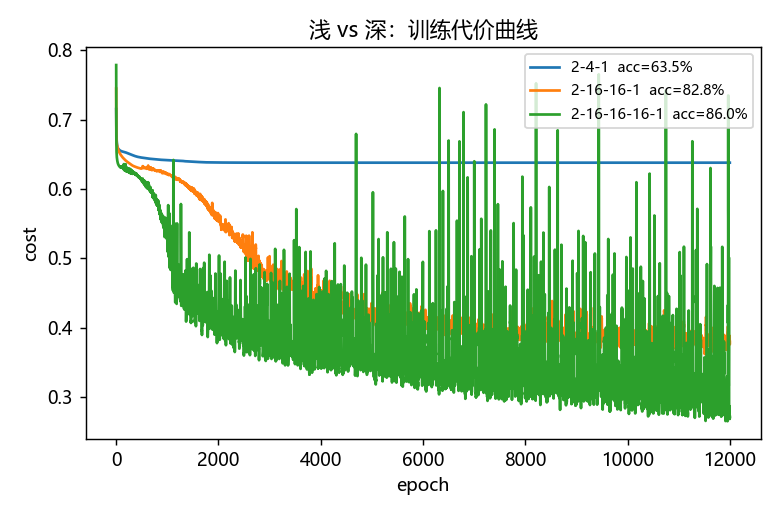
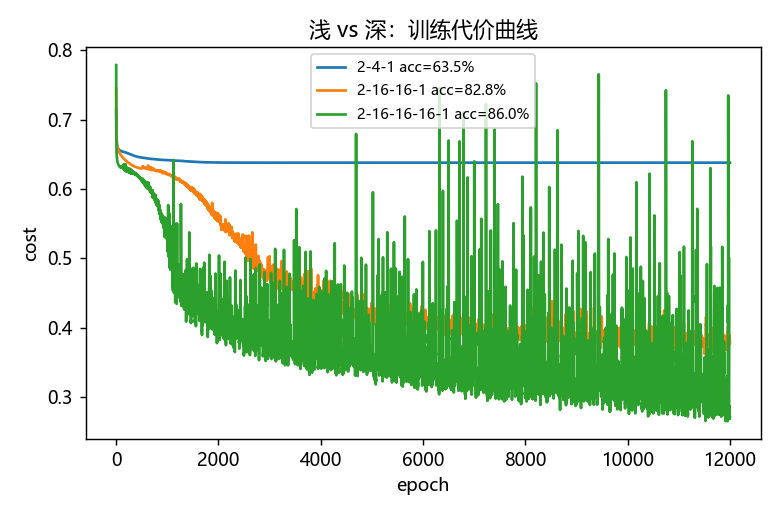
W4: 逐行注释版（含 Python 语法小抄），结果与原版一致

Changed region(s): [[0.4, 0.0923, 0.9846, 0.2462]]

diff --git a/playground/nn_deep_everyline.py b/playground/nn_deep_everyline.py
@@ -1,0 +1,357 @@
+"""
+任意层数的神经网络 —— 每一行都注释的版本（第四周作业）
+=========================================================
+这个文件是给你这种"Python 语法还没学完"的人看的：
+每一行代码，旁边或上方都有一句解释。
+解释分两种：
+    【语法】这行 Python 在干什么
+    【数学】这行在算什么
+
+运行方式：
+    cd /d D:\dl-journey
+    python playground\nn_deep_everyline.py
+
+跑完会打印三种层数结构的准确率，并生成两张图。
+"""
+
+
+# =============================================================================
+# 第 0 节：Python 语法小抄 —— 先花 10 分钟看这个，再看代码
+# =============================================================================
+#
+# 1) import 是什么？
+#    import numpy as np
+#    相当于 C++ 的 #include，把别人的库拿进来用；as np 是起外号。
+#
+# 2) 列表（list）是什么？
+#    a = [1, 2, 3]
+#    相当于 C++ 的 vector，可以装任意东西，长度可变。
+#    a[0] 是第一个元素（下标从 0 开始，和 C++ 一样）。
+#    a.append(x) 往末尾加一个元素。
+#
+# 3) 字典（dict）是什么？
+#    d = {"W": 1, "b": 2}
+#    相当于 C++ 的 map<string, 值>，用"键"取"值"：d["W"] 得到 1。
+#
+# 4) 列表套字典是什么？
+#    params = [{"W": ..., "b": ...}, {"W": ..., "b": ...}]
+#    params[0] 是第 1 层的字典，params[0]["W"] 就是第 1 层的 W。
+#
+# 5) for 循环怎么写？
+#    for i in range(3):     → i 依次等于 0, 1, 2（range(3) 不含 3）
+#    注意 Python 用"缩进"表示范围，不用花括号。
+#
+# 6) 倒着循环怎么写？
+#    for i in reversed(range(3)):   → i 依次等于 2, 1, 0
+#
+# 7) 函数怎么写？
+#    def f(a, b=1):   定义函数 f，参数 a 必填，b 默认 1
+#        return a + b
+#
+# 8) 占位列表：[None] * 3  → 造一个长度为 3、每个元素都是 None 的列表
+#
+# 9) f-string 是什么？
+#    f"准确率 {acc:.2f}%"  → 把变量 acc 填进去，:.2f 表示保留两位小数
+#
+# 10) 用大括号取值的写法：params[l]["W"]  → 第 l+1 层的 W（因为下标从 0 开始）
+#
+# 11) @ 是什么？矩阵乘法，等价于 np.dot。
+# 12) .T 是什么？转置。
+# 13) np.xxx 是什么？numpy 里的函数，例如 np.sum 求和、np.maximum 取较大值。
+# 14) (Z > 0) 是什么？对数组逐个判断，得到一堆 True/False；
+#     在 numpy 里 True/False 可以直接当 1/0 参与乘法。
+# 15) if __name__ == "__main__": 固定写法，表示"直接运行这个文件时才执行下面"。
+#
+# 看懂这 15 条，下面的代码逐行读就没有障碍了。
+# =============================================================================
+
+
+# ---------- 第 1 节：导入要用的库 ----------
+import os                     # 【语法】导入 os，用来拼文件路径
+
+import numpy as np            # 【语法】导入 numpy，别名 np，做矩阵运算
+import matplotlib             # 【语法】导入 matplotlib，画图用
+matplotlib.use("Agg")         # 【语法】设置成"不弹窗、直接存图"的模式
+import matplotlib.pyplot as plt  # 【语法】导入画图接口，别名 plt
+
+plt.rcParams["font.sans-serif"] = ["Microsoft YaHei", "SimHei"]  # 【语法】指定中文字体，否则中文变方块
+plt.rcParams["axes.unicode_minus"] = False                       # 【语法】让负号正常显示
+
+HERE = os.path.dirname(os.path.abspath(__file__))  # 【语法】__file__ 是本文件路径；abspath 转绝对路径；dirname 取所在文件夹
+np.random.seed(0)                                  # 【数学】固定随机种子，保证每次跑出来的结果一样
+
+
+# =============================================================================
+# 第 2 节：造数据（两条互相缠绕的螺旋）
+# =============================================================================
+def make_spirals(n_per_class=300, noise=0.12):
+    # 【语法】def 定义函数；n_per_class=300 是默认参数，调用时不写就用 300
+    """
+    每一类造 n_per_class 个点，两类点互相缠绕成螺旋。
+    返回 X（形状 2×600）和 Y（形状 1×600）。
+    """
+    m_each = n_per_class                                      # 【语法】把参数存进变量，后面少打字
+
+    t = np.linspace(0.2, 1.0, m_each) * 4 * np.pi             # 【数学】在 0.2~1.0 之间取 300 个数，乘 4π 变成角度
+    r = t / (4 * np.pi)                                       # 【数学】半径随角度线性增长，才形成螺旋
+
+    ang0 = t                                                  # 【数学】第 0 类的角度
+    ang1 = t + np.pi                                          # 【数学】第 1 类的角度，错开半圈（π）
+
+    x0 = r * np.cos(ang0) + np.random.randn(m_each) * noise   # 【数学】极坐标转直角坐标 X，再加一点随机噪声
+    y0 = r * np.sin(ang0) + np.random.randn(m_each) * noise   # 【数学】极坐标转直角坐标 Y，再加噪声
+    x1 = r * np.cos(ang1) + np.random.randn(m_each) * noise   # 【数学】第 1 类的 X
+    y1 = r * np.sin(ang1) + np.random.randn(m_each) * noise   # 【数学】第 1 类的 Y
+
+    row_x = np.hstack((x0, x1))                               # 【语法】hstack 把两个一维数组左右拼成 600 个
+    row_y = np.hstack((y0, y1))                               # 【语法】同上，拼 Y 坐标
+    X = np.vstack((row_x, row_y))                             # 【语法】vstack 把两行上下叠成 2×600 的矩阵
+
+    label0 = np.zeros(m_each)                                 # 【数学】前 300 个点的标签是 0
+    label1 = np.ones(m_each)                                  # 【数学】后 300 个点的标签是 1
+    Y = np.hstack((label0, label1))                           # 【语法】拼成 600 个标签
+    Y = Y.reshape(1, -1)                                      # 【语法】reshape 改成 1 行 600 列；-1 表示"这维你自己算"
+
+    return X, Y                                               # 【语法】一次返回两个值
+
+
+# =============================================================================
+# 第 3 节：初始化参数（层数由列表决定）
+# =============================================================================
+def init_params(layer_dims):
+    # 【语法】layer_dims 是一个列表，例如 [2, 16, 1]
+    """
+    layer_dims 描述每层多少个神经元，相邻两个数之间有一组 W、b。
+    返回 params 列表，params[0] 是第 1 层的参数。
+    """
+    params = []                                               # 【语法】先造一个空列表，等下往里 append
+
+    for l in range(len(layer_dims) - 1):                      # 【语法】range(3) 得到 0,1,2；len 取列表长度
+        n_in = layer_dims[l]                                  # 【语法】第 l 个元素 = 这一层的输入个数
+        n_out = layer_dims[l + 1]                             # 【语法】第 l+1 个元素 = 这一层神经元个数
+
+        W = np.random.randn(n_out, n_in) * np.sqrt(2.0 / n_in)  # 【数学】He 初始化：随机数乘 sqrt(2/n_in)，让每层输出方差稳定
+        b = np.zeros((n_out, 1))                              # 【语法】造 n_out 行 1 列的全 0；注意是双括号
+        params.append({"W": W, "b": b})                       # 【语法】把这一层的 W、b 装进字典，再 append 到列表
+
+    return params                                             # 【语法】返回列表
+
+
+# =============================================================================
+# 第 4 节：前向传播（for 循环走完所有层）
+# =============================================================================
+def forward(X, params):
+    """
+    公式：Z[l] = W[l]·A[l-1] + b[l]，A[l] = 激活(Z[l])
+    中间层用 ReLU，最后一层用 sigmoid。
+    """
+    caches = []                                               # 【语法】空列表，用来存每层的中间结果
+    A = X                                                     # 【数学】第 0 层"激活"就是输入本身
+    L = len(params)                                           # 【语法】len(params) = 一共几层
+
+    for l in range(L):                                        # 【语法】l 从 0 到 L-1
+        A_prev = A                                            # 【数学】先记下这一层的输入，反向传播要用
+        W = params[l]["W"]                                    # 【语法】取第 l+1 层的 W（字典取值）
+        b = params[l]["b"]                                    # 【语法】取第 l+1 层的 b
+
+        Z = W @ A_prev + b                                    # 【数学】线性部分：矩阵乘 + 广播加
+        is_last = (l == L - 1)                                # 【语法】判断是不是最后一层，== 是比较
+
+        if is_last:                                           # 【语法】if 条件成立走下面
+            A = 1 / (1 + np.exp(-Z))                          # 【数学】sigmoid，把数压到 0~1
+        else:                                                 # 【语法】否则走这里
+            A = np.maximum(0, Z)                              # 【数学】ReLU：复数逐个和 0 比，取大的
+
+        caches.append((A_prev, Z))                            # 【语法】把 (A_prev, Z) 这个元组 append 进去
+
+    return A, caches                                          # 【语法】返回最终输出和缓存
+
+
+# =============================================================================
+# 第 5 节：代价函数（交叉熵）
+# =============================================================================
+def compute_cost(A_last, Y):
+    m = Y.shape[1]                                            # 【语法】shape 是形状元组，(1,600) 的 [1] 是 600
+
+    y_log = Y * np.log(A_last + 1e-8)                         # 【数学】真值为 1 的样本，算 log(预测)
+    one_minus = (1 - Y) * np.log(1 - A_last + 1e-8)           # 【数学】真值为 0 的样本，算 log(1-预测)；加 1e-8 防 log(0)
+    cost = -np.sum(y_log + one_minus) / m                     # 【数学】全部加起来、除以样本数、取负号
+
+    return float(np.squeeze(cost))                            # 【语法】squeeze 去掉多余维度，float 转成普通小数
+
+
+# =============================================================================
+# 第 6 节：反向传播（核心）
+# =============================================================================
+def backward(params, caches, Y):
+    """
+    每层三件事：
+        dz[l] = da[l] ⊙ g'(Z[l])
+        dW[l] = dz[l] · A[l-1]ᵀ / m
+        db[l] = sum(dz[l]) / m
+    然后把 da[l-1] = W[l]ᵀ · dz[l] 传给前一层。
+    """
+    L = len(params)                                           # 【语法】层数
+    m = Y.shape[1]                                            # 【语法】样本数
+    grads = [None] * L                                        # 【语法】造一个长度 L、全是 None 的列表占位
+
+    A_prev_last, Z_last = caches[-1]                          # 【语法】caches[-1] 是最后一个元素（-1 表示倒数第一）
+    A_last = 1 / (1 + np.exp(-Z_last))                        # 【数学】重新算一次最后一层输出（sigmoid）
+
+    dA = -(Y / (A_last + 1e-8)) + (1 - Y) / (1 - A_last + 1e-8)  # 【数学】da：代价对输出 A 的导数
+    dZ = dA * (A_last * (1 - A_last))                         # 【数学】sigmoid 的导数是 a(1-a)；两者相乘会化简成 A-Y
+
+    W_last = params[L - 1]["W"]                               # 【语法】取最后一层的 W
+    dW = dZ @ A_prev_last.T / m                               # 【数学】dW = dz · Aᵀ / m；.T 是转置
+    db = np.sum(dZ, axis=1, keepdims=True) / m                # 【数学】按行求和（把 m 个样本汇总），保持 (n,1) 形状
+
+    grads[L - 1] = {"dW": dW, "db": db}                       # 【语法】把最后一层的梯度存进列表对应位置
+
+    dA = W_last.T @ dZ                                        # 【数学】把误差传回前一层：da[l-1] = W[l]ᵀ dz[l]
+
+    for l in reversed(range(L - 1)):                          # 【语法】reversed 让 l 从 L-2 递减到 0
+        A_prev, Z = caches[l]                                 # 【语法】取出这一层的缓存（元组解包）
+
+        relu_mask = (Z > 0)                                   # 【语法】得到一堆 True/False
+        dZ = dA * relu_mask                                   # 【数学】ReLU 的导数：z>0 是 1，否则 0；True/False 当 1/0 用
+
+        dW = dZ @ A_prev.T / m                                # 【数学】dW = dz · Aᵀ / m
+        db = np.sum(dZ, axis=1, keepdims=True) / m            # 【数学】db = Σdz / m
+        grads[l] = {"dW": dW, "db": db}                       # 【语法】存进列表第 l 个位置
+
+        if l > 0:                                             # 【语法】第 1 层之前没有层了，不用再传
+            dA = params[l]["W"].T @ dZ                        # 【数学】继续往前传：da[l-1] = W[l]ᵀ dz[l]
+
+    return grads                                              # 【语法】返回梯度列表
+
+
+# =============================================================================
+# 第 7 节：更新参数
+# =============================================================================
+def update(params, grads, lr):
+    for l in range(len(params)):                              # 【语法】遍历每一层
+        params[l]["W"] -= lr * grads[l]["dW"]                 # 【数学】W = W - 学习率 × dW；-= 是"减完存回"
+        params[l]["b"] -= lr * grads[l]["db"]                 # 【数学】b = b - 学习率 × db
+    return params                                             # 【语法】返回更新后的参数
+
+
+# =============================================================================
+# 第 8 节：训练
+# =============================================================================
+def train(X, Y, layer_dims, epochs=12000, lr=0.5, print_every=2000):
+    params = init_params(layer_dims)                          # 【语法】调用上面的函数，拿到初始参数
+    history = []                                              # 【语法】空列表，存每一轮的代价
+
+    for epoch in range(epochs):                               # 【语法】循环 epochs 次
+        A_last, caches = forward(X, params)                   # 【数学】① 前向：算预测
+        cost = compute_cost(A_last, Y)                        # 【数学】② 算代价
+        grads = backward(params, caches, Y)                   # 【数学】③ 反向：算梯度
+        params = update(params, grads, lr)                    # 【数学】④ 更新参数
+        history.append(cost)                                  # 【语法】把这次的代价 append 进历史
+
+        if epoch % print_every == 0:                          # 【语法】% 取余；余数为 0 说明是每隔 print_every 轮
+            print(f"  epoch {epoch:5d}   cost = {cost:.4f}")  # 【语法】f-string：{epoch:5d} 占 5 格整数，{cost:.4f} 保留 4 位小数
+
+    return params, history                                    # 【语法】返回参数和代价历史
+
+
+# =============================================================================
+# 第 9 节：预测
+# =============================================================================
+def predict(params, X):
+    A_last, _ = forward(X, params)                            # 【语法】_ 表示"这个返回值我不要，丢掉"
+    return (A_last > 0.5).astype(int)                         # 【数学】概率 > 0.5 判 1，否则 0；astype(int) 把 True/False 转成 1/0
+
+
+# =============================================================================
+# 第 10 节：维度核对（第四周强调的习惯）
+# =============================================================================
+def print_shapes(layer_dims):
+    """
+    写深层网络前先列形状：
+        W[l] 是 (n[l], n[l-1])
+        b[l] 是 (n[l], 1)
+    形状错了不会报错，只会算出莫名其妙的结果。
+    """
+    print("  层   W 形状        b 形状        本层参数量")     # 【语法】打印表头
+    total = 0                                                 # 【语法】累加器，从 0 开始
+
+    for l in range(len(layer_dims) - 1):                      # 【语法】有几组相邻层就循环几次
+        n_in = layer_dims[l]                                  # 【语法】输入个数
+        n_out = layer_dims[l + 1]                             # 【语法】输出个数
+        cnt = n_in * n_out + n_out                            # 【数学】W 有 n_in×n_out 个，b 有 n_out 个
+        total += cnt                                          # 【语法】累加
+        print(f"   {l+1}    ({n_out}, {n_in})".ljust(18) + f"({n_out}, 1)".ljust(14) + str(cnt))  # 【语法】ljust 左对齐补空格
+
+    print(f"   合计参数量：{total}")                           # 【语法】打印总数
+
+
+# =============================================================================
+# 第 11 节：主程序（浅 vs 深 对比）
+# =============================================================================
+def main():
+    X, Y = make_spirals()                                     # 【语法】调用函数造数据，两个返回值分别接住
+    print(f"数据：X {X.shape}   Y {Y.shape}\n")              # 【语法】\n 是换行符
+
+    print("最深的那个网络的维度核对：")                        # 【语法】打印一行提示
+    print_shapes([2, 16, 16, 16, 1])                          # 【语法】传一个列表进去
+    print()                                                   # 【语法】空 print 就是输出一个换行
+
+    configs = [                                               # 【语法】造一个列表，里面是三个元组（名字, 层结构）
+        ("浅：2-4-1", [2, 4, 1]),
+        ("中：2-16-16-1", [2, 16, 16, 1]),
+        ("深：2-16-16-16-1", [2, 16, 16, 16, 1]),
+    ]
+
+    results = []                                              # 【语法】空列表，存每次实验的结果
+
+    for name, dims in configs:                                # 【语法】遍历列表；每个元素是元组，自动拆成 name 和 dims
+        print(f"\n训练 {name}")                               # 【语法】打印标题
+        np.random.seed(0)                                     # 【数学】每次重新固定种子，保证三个网络起点可比
+        params, hist = train(X, Y, dims)                      # 【语法】训练，拿到参数和代价历史
+
+        pred = predict(params, X)                             # 【数学】在训练集上预测
+        correct = (pred == Y)                                 # 【语法】逐个比较，得到 True/False 数组
+        acc = np.mean(correct) * 100                          # 【数学】True 占的比例 ×100 = 准确率
+        n_params = sum(p["W"].size + p["b"].size for p in params)  # 【语法】生成器表达式：把每层参数个数加起来
+
+        print(f"  → 准确率 {acc:.2f}%   参数量 {n_params}")    # 【语法】f-string 打印
+        results.append((name, dims, params, hist, acc))       # 【语法】把结果打包 append 进列表
+
+    plt.figure(figsize=(6, 4))                                # 【语法】开一张 6×4 英寸的图
+    for name, dims, params, hist, acc in results:             # 【语法】遍历结果
+        plt.plot(hist, label=f"{'-'.join(map(str, dims))} acc={acc:.1f}%")  # 【语法】画曲线，label 是图例文字
+    plt.xlabel("epoch")                                       # 【语法】横轴标题
+    plt.ylabel("cost")                                        # 【语法】纵轴标题
+    plt.legend(fontsize=8)                                    # 【语法】显示图例，字号 8
+    plt.title("浅 vs 深：训练代价曲线")                        # 【语法】总标题
+    plt.tight_layout()                                        # 【语法】自动调整边距，防止文字被切
+    plt.savefig(os.path.join(HERE, "deep_cost_curves.png"), dpi=130)  # 【语法】存图，os.path.join 拼路径
+
+    name, dims, params, hist, acc = results[-1]               # 【语法】取最后一个结果（最深那个网络）
+    xs = np.linspace(-1.3, 1.3, 300)                          # 【数学】横向取 300 个坐标点
+    ys = np.linspace(-1.3, 1.3, 300)                          # 【数学】纵向取 300 个坐标点
+    xx, yy = np.meshgrid(xs, ys)                              # 【语法】生成 300×300 的网格坐标
+    gx = xx.ravel()                                           # 【语法】ravel 把二维拉平成一维
+    gy = yy.ravel()                                           # 【语法】同上
+    grid = np.vstack((gx, gy))                                # 【语法】叠成 2×90000，作为 9 万个待预测点
+
+    Z = predict(params, grid)                                 # 【数学】对 9 万个点逐个预测
+    Z = Z.reshape(xx.shape)                                   # 【语法】再变回 300×300 的表格，方便画图
+
+    plt.figure(figsize=(6, 5))                                # 【语法】新开一张图
+    plt.contourf(xx, yy, Z, alpha=0.25, cmap="RdBu")          # 【语法】画填充色块，alpha 是透明度
+    mask0 = (Y[0] == 0)                                       # 【语法】挑出标签为 0 的那些位置
+    plt.scatter(X[0, mask0], X[1, mask0], s=8, label="class 0")  # 【语法】画类别 0 的点，s 是点大小
+    mask1 = (Y[0] == 1)                                       # 【语法】挑出标签为 1 的位置
+    plt.scatter(X[0, mask1], X[1, mask1], s=8, label="class 1")  # 【语法】画类别 1 的点
+    plt.legend(loc="upper right", fontsize=9)                 # 【语法】图例放右上角
+    plt.title(f"最深网络 acc={acc:.1f}%")                      # 【语法】标题里带准确率
+    plt.tight_layout()                                        # 【语法】调整边距
+    plt.savefig(os.path.join(HERE, "deep_boundary.png"), dpi=130)  # 【语法】存第二张图
+
+    print("\n图片已保存：deep_cost_curves.png, deep_boundary.png")  # 【语法】提示结束
+
+
+if __name__ == "__main__":                                    # 【语法】只有"直接运行"这个文件时才执行 main()
+    main()                                                    # 【语法】调用主函数
